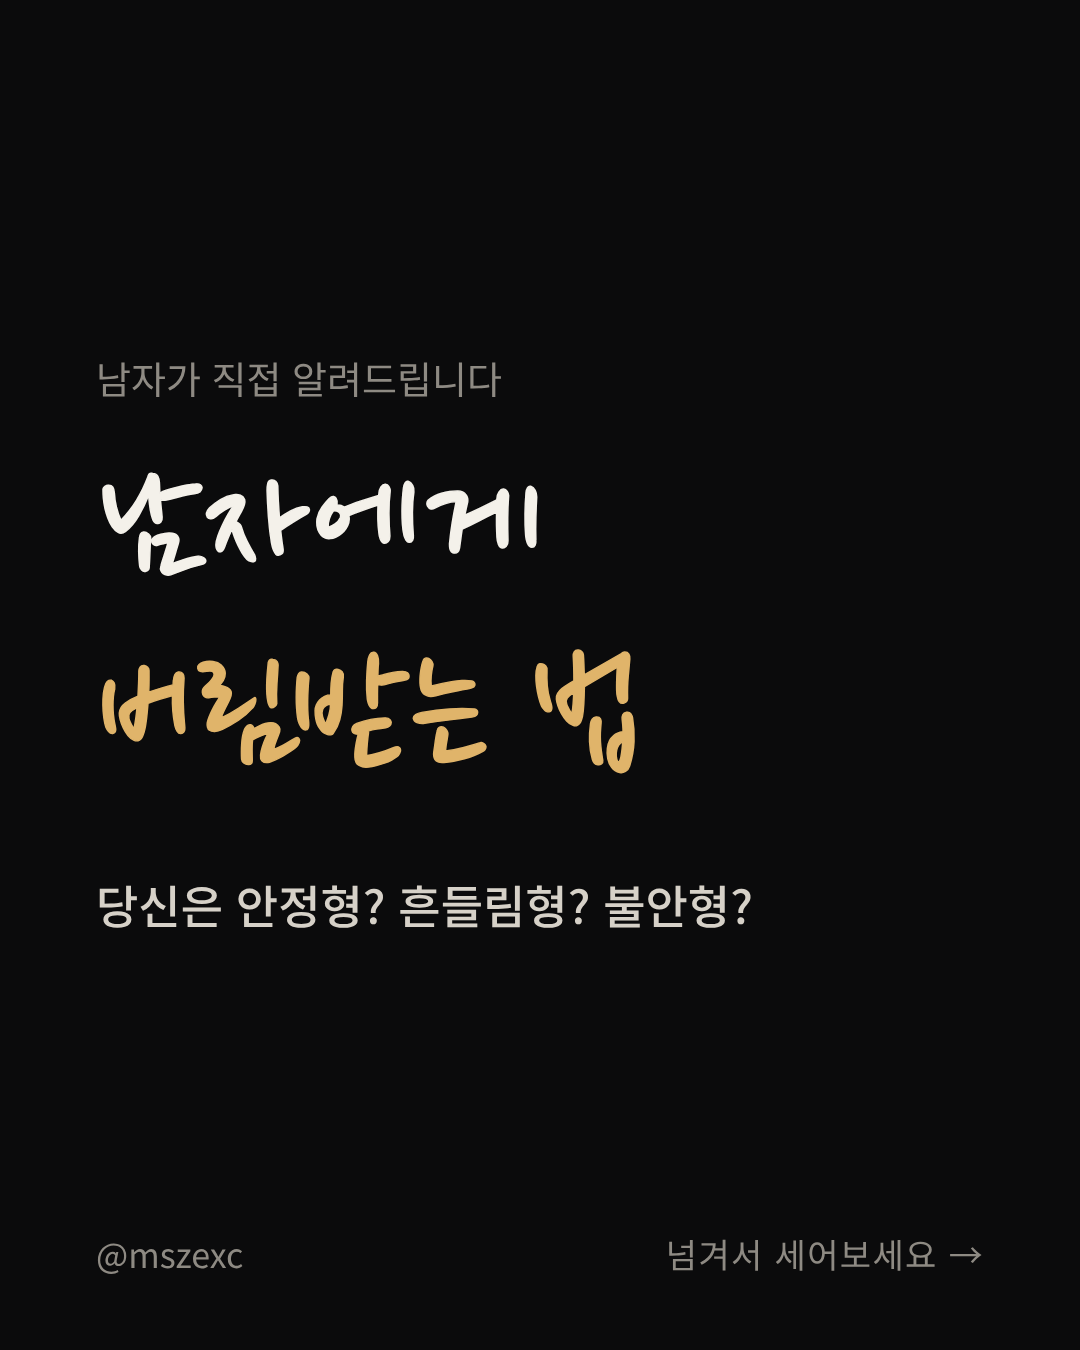
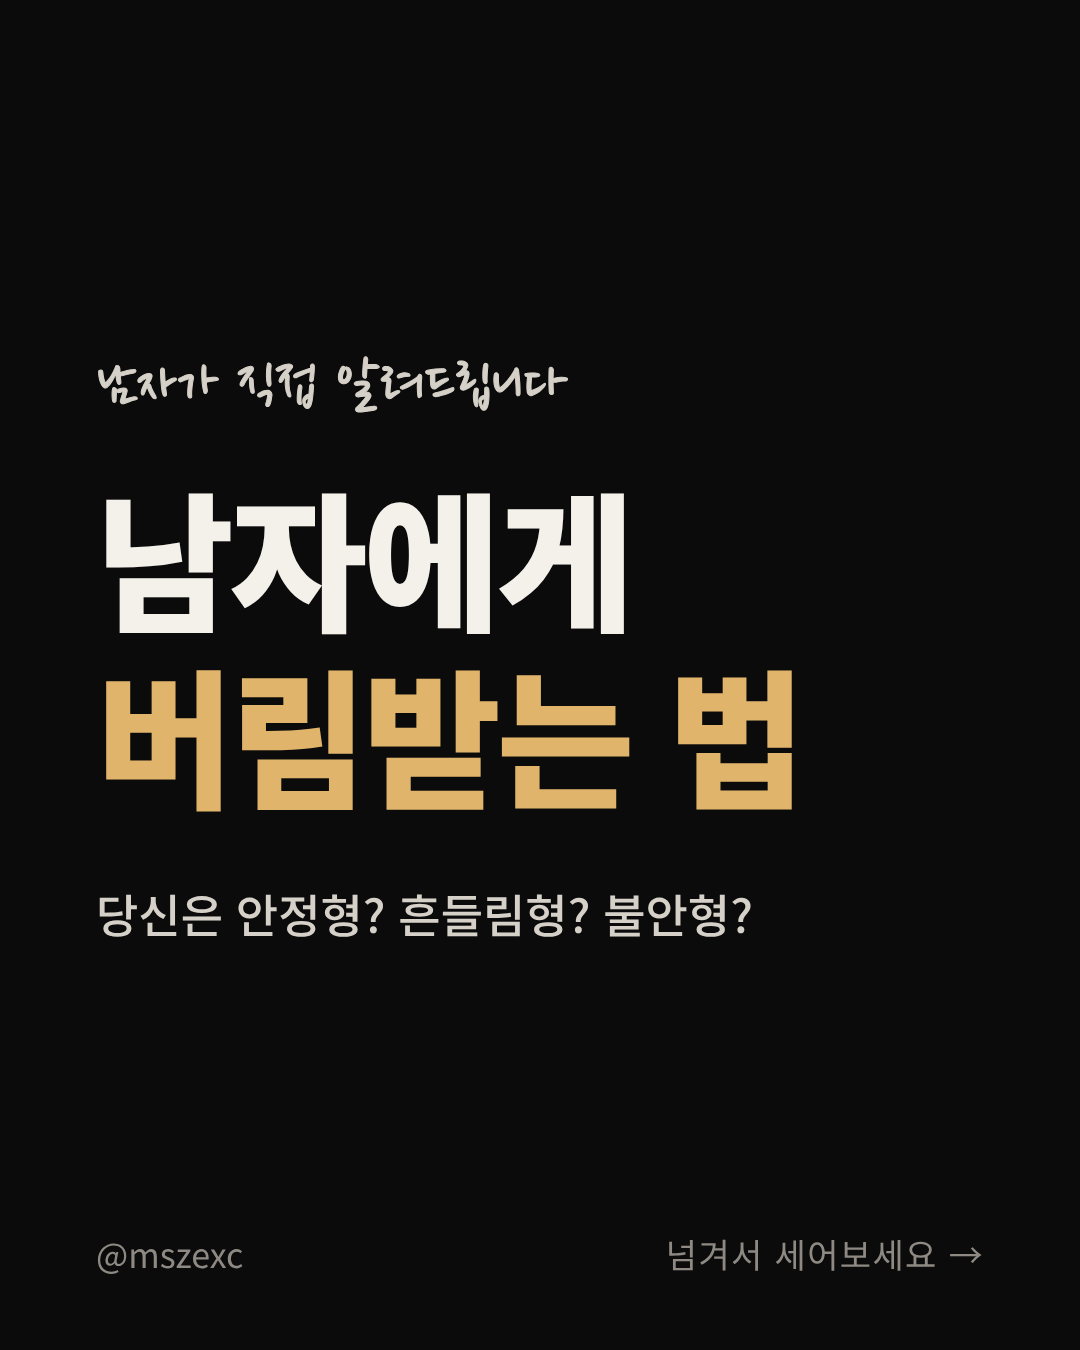
Carousel #06: gothic cover title; add carousel style standard
Claude-Session: https://claude.ai/code/session_01J9i5yL8MFhQ5W67Sx3nDW6

Changed region(s): [[0.0917, 0.3422, 0.7333, 0.6222], [0.0917, 0.6533, 0.7028, 0.7156], [0.0917, 0.2489, 0.5194, 0.3111]]

diff --git a/carousel/carousel_07c.html b/carousel/carousel_07c.html
@@ -116,6 +116,11 @@
   .inv .series, .inv .handle { color:#6b665d !important; }
   .feel2 { color:#e6e1d8 !important; }
 </style>
+<style>
+  /* cover standard: bold gothic title + handwritten top line; slides 2+ stay handwritten */
+  #s1 .cover-c .pen { font-family:'Noto Sans KR',sans-serif !important; font-weight:900 !important; -webkit-text-stroke:0 !important; letter-spacing:-0.03em; line-height:1.18 !important; font-size:150px !important; }
+  #s1 .cover-c .small { font-family:'Nanum Pen Script',cursive !important; font-size:64px !important; color:#d6d1c8 !important; -webkit-text-stroke:1px currentColor; }
+</style>
 </head>
 <body>
 <section class="slide" id="s1">

diff --git a/carousel/STYLE.md b/carousel/STYLE.md
@@ -1,0 +1,9 @@
+# 캐러셀 기본 틀 (10/15 확정)
+
+- 크기 1080×1350, 검은 배경(#0b0b0c), 강조색 금색(#e0b46a), 밝은 배경 위 금색은 #8a5a12
+- **1장(표지)**: 제목은 굵은 고딕(Noto Sans KR 900, 약 150px), 윗줄 한 줄은 손글씨(나눔펜, 64px)로 다리 놓기, 아래 한 줄 질문
+- **2장부터**: 제목은 손글씨(나눔펜, 획 두께 보강), 본문은 Noto Sans KR
+- 글씨 최소 크기 34px (휴대폰에서 약 13px)
+- 손글씨 제목은 한 줄 12자 안팎, 최대 2~3줄
+- 상단 진행 막대("3 / 7"), 반전 장은 크림 배경, 마지막에 요약/결과 장 + 대신 전하는 한 장
+- 마지막 줄: "남자가 하는 말의 뜻은 전자책 1·2권에 · 프로필 링크에서 무료"
